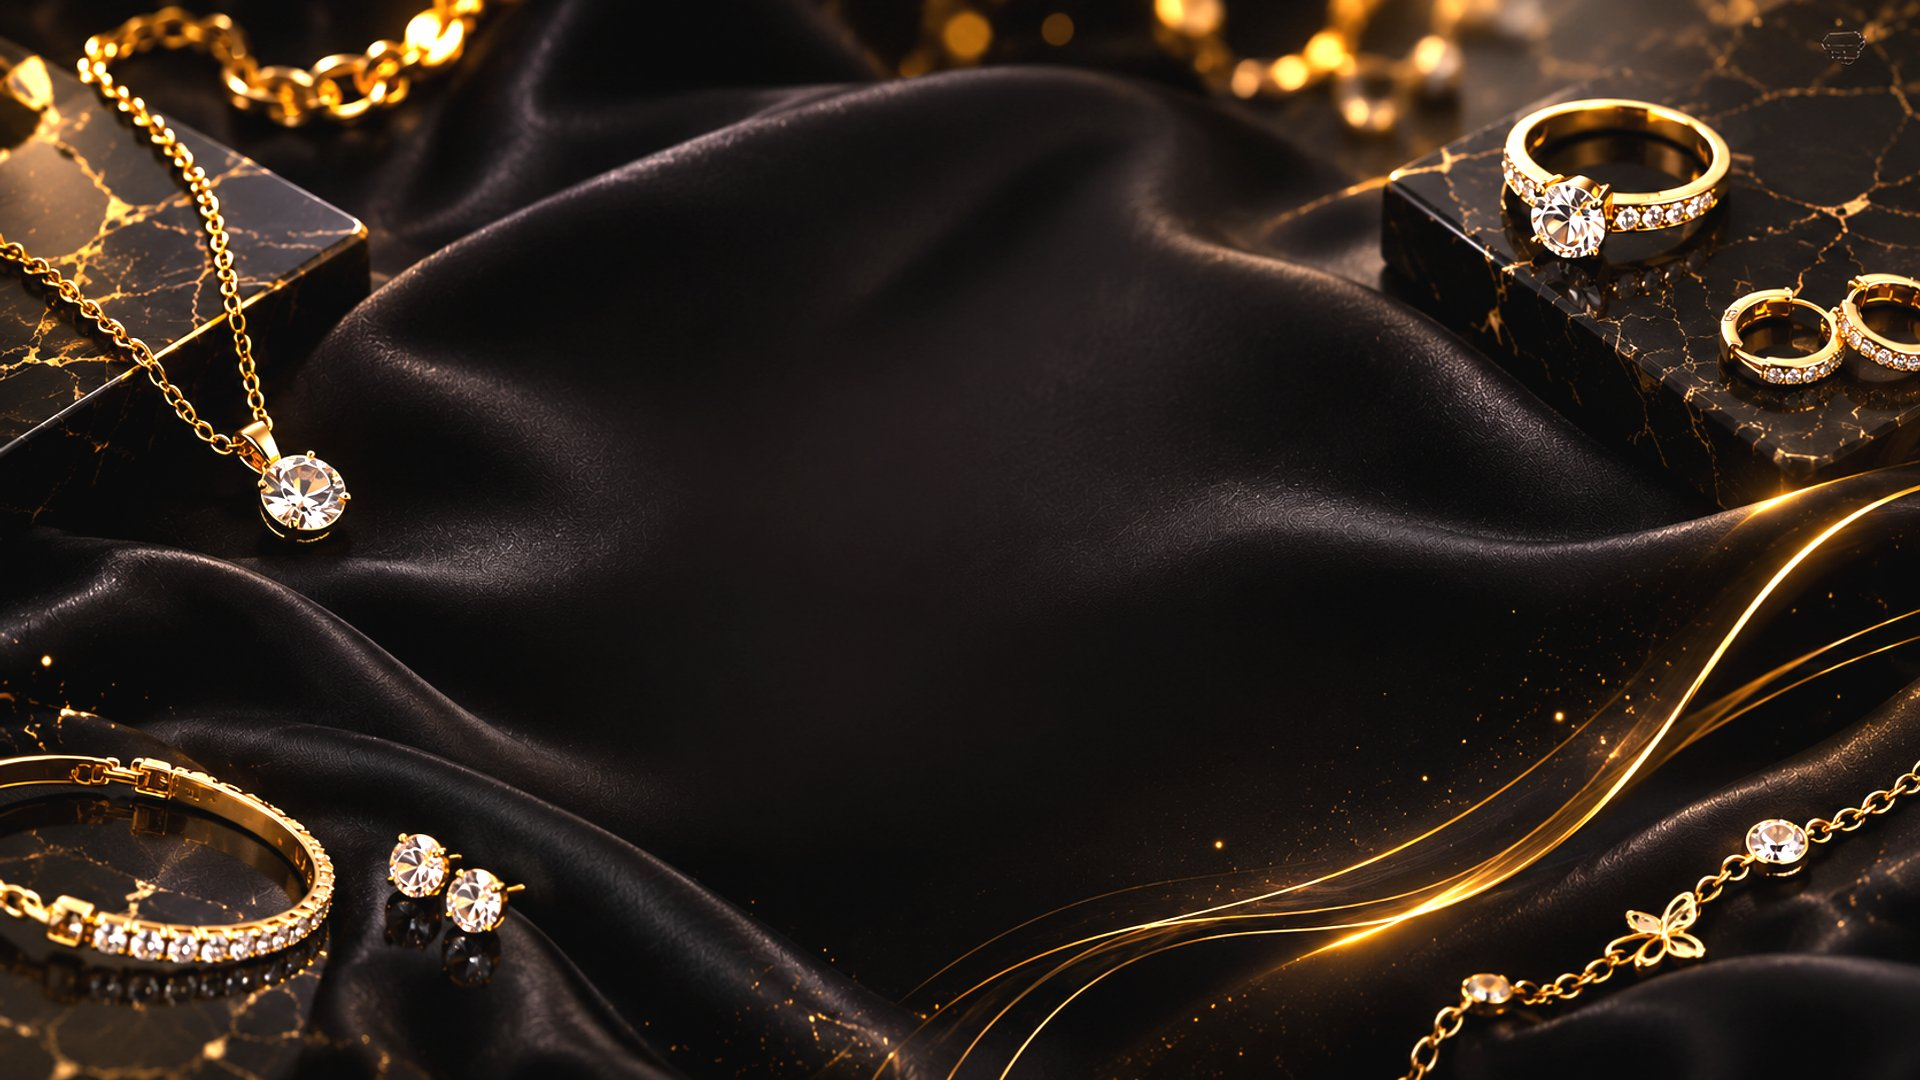
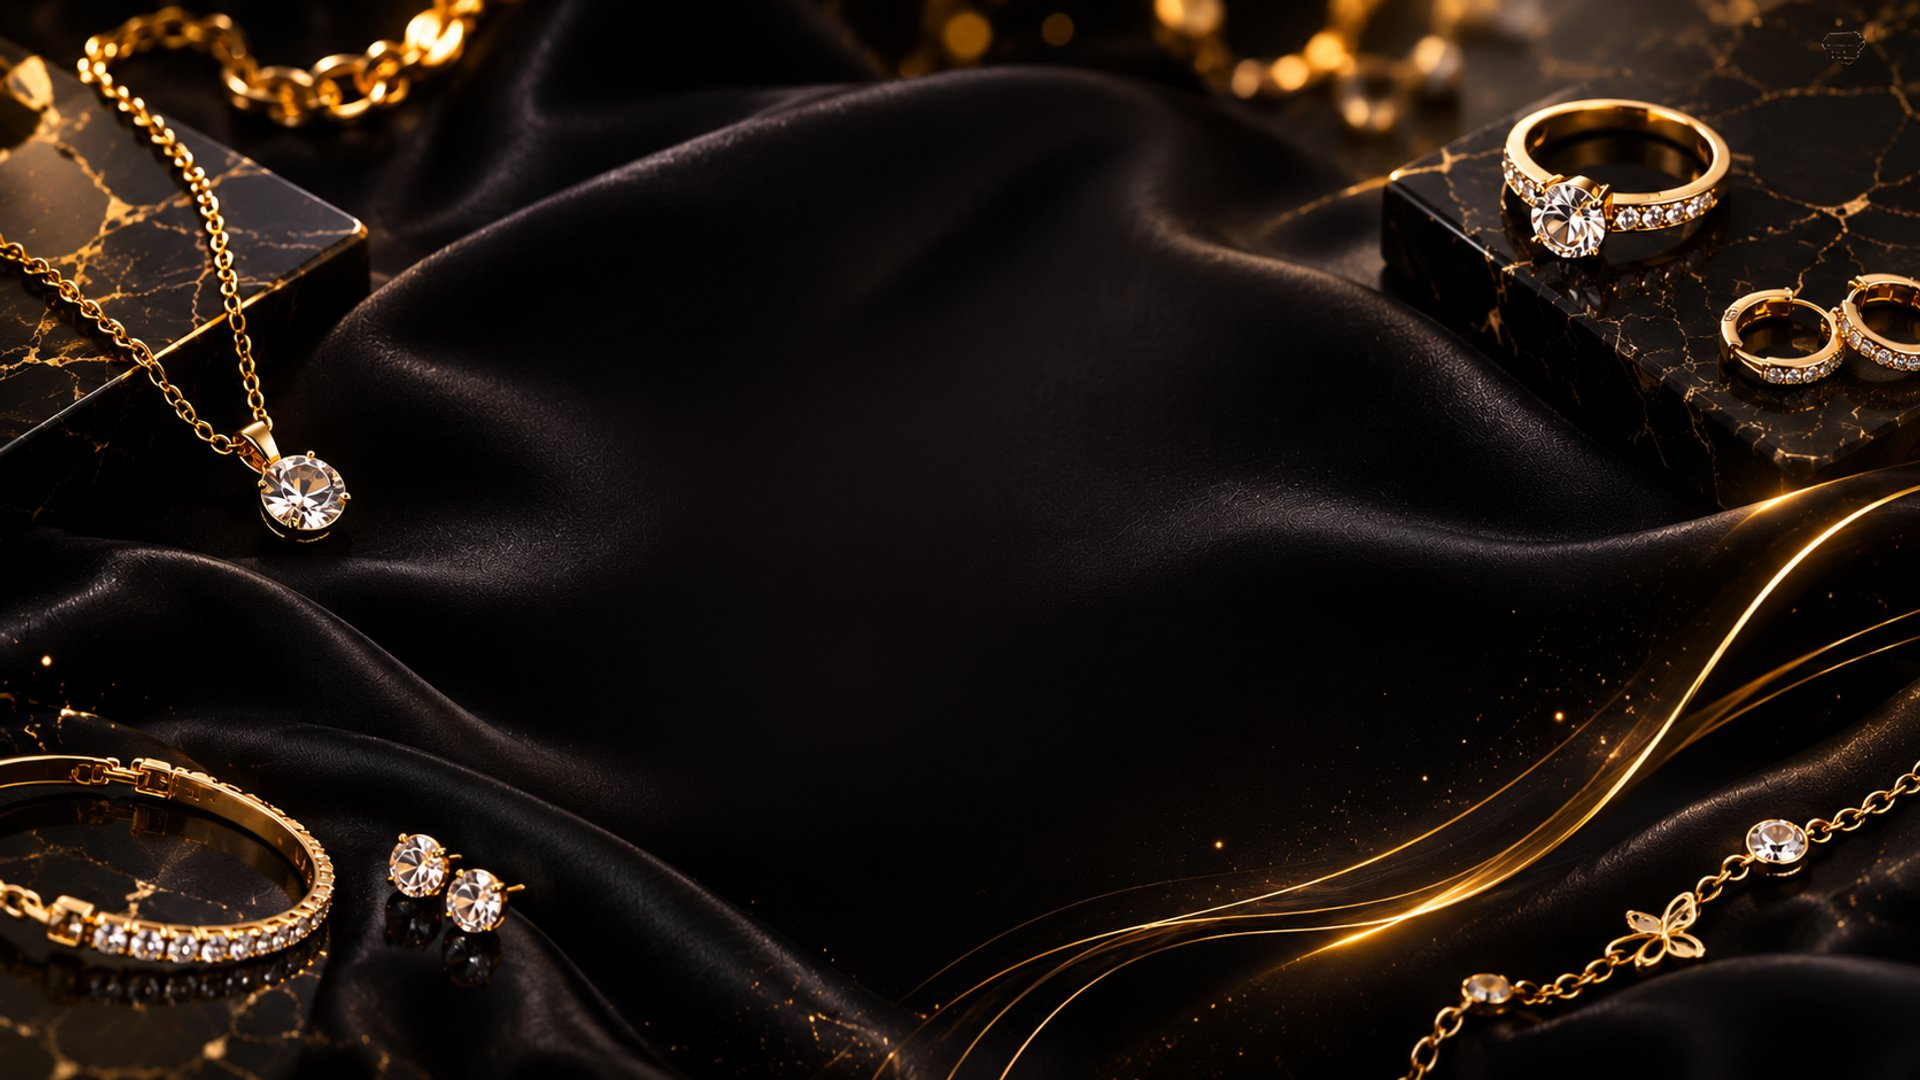
Restore natural image brightness for hero backgrounds

diff --git a/src/components/famar/home-view.tsx b/src/components/famar/home-view.tsx
@@ -100,7 +100,7 @@ export function HomeView() {
       <section className="relative min-h-[70vh] flex items-center justify-center overflow-hidden">
         <div className="absolute inset-0 bg-[url('/hero-bg.png')] bg-cover bg-center max-md:hidden" />
         <div className="absolute inset-0 bg-[url('/hero-bg-mobile.jpg')] bg-cover bg-center md:hidden" />
-        <div className="absolute inset-0 bg-gradient-to-b from-black/60 via-black/25 to-black/60 max-md:from-black/40 max-md:via-black/10 max-md:to-black/40" />
+        <div className="absolute inset-0 bg-gradient-to-b from-black/60 via-black/25 to-black/60" />
         <div className="relative z-10 text-center px-4 max-w-3xl mx-auto">
           <motion.h1
             initial={{ opacity: 0, y: -20 }}
